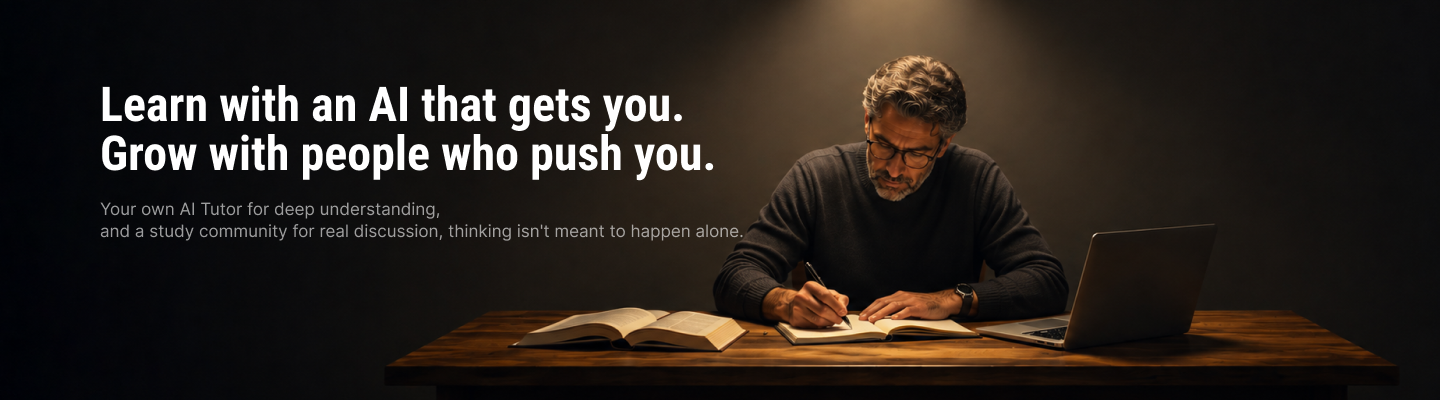
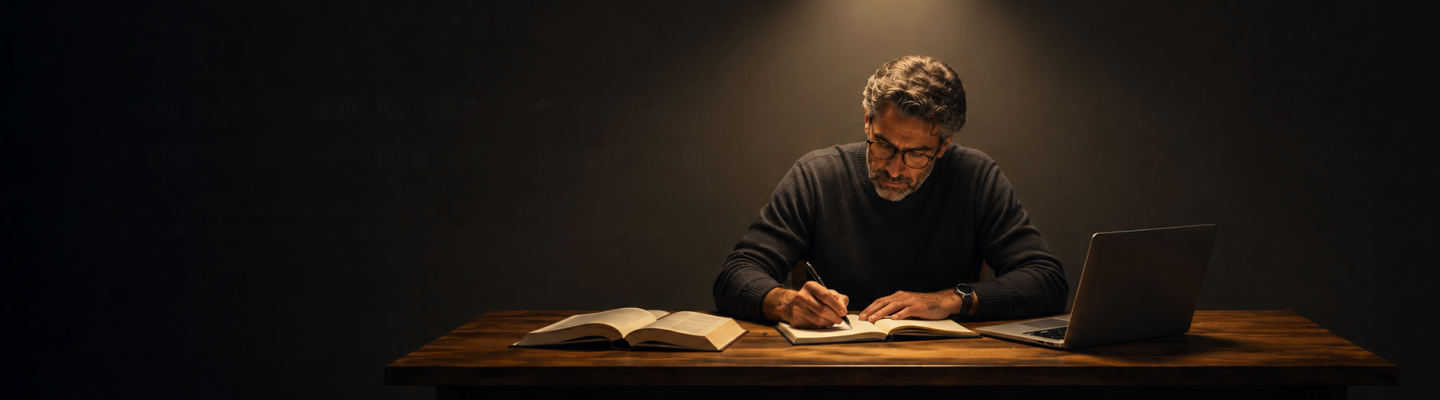
fix: show one portal hero slide at a time
Slides 2 and 3 used photos that already contained an English headline. The carousel draws one HTML headline on that photo, so both copies showed at once. Remove the flattened copy and reject it if it returns.

Changed region(s): [[0.0625, 0.21, 0.5, 0.45], [0.0625, 0.57, 0.5312, 0.6], [0.0625, 0.51, 0.3125, 0.54]]

diff --git a/tests/unit/portal-hero-banners.test.ts b/tests/unit/portal-hero-banners.test.ts
@@ -1,0 +1,24 @@
+import assert from "node:assert/strict";
+import { readFile } from "node:fs/promises";
+import path from "node:path";
+import test from "node:test";
+import sharp from "sharp";
+
+// Home slides paint one HTML headline over these photos. The pictures must stay
+// photographs: an earlier export flattened a second English headline into the pixels.
+test("homepage banner photos do not flatten a second headline into the picture", async () => {
+  for (const file of ["banner2.png", "banner3.png"]) {
+    const source = await readFile(path.join(process.cwd(), "public/portal", file));
+    const { data, info } = await sharp(source).ensureAlpha().raw().toBuffer({ resolveWithObject: true });
+    let bright = 0;
+    let total = 0;
+    for (let y = 90; y < 170; y++) {
+      for (let x = 120; x < 640; x++) {
+        const index = (y * info.width + x) * info.channels;
+        total += 1;
+        if (data[index] > 220 && data[index + 1] > 220 && data[index + 2] > 220) bright += 1;
+      }
+    }
+    assert.ok(bright / total < 0.01, `${file} still has a flattened white headline (${bright} of ${total} pixels)`);
+  }
+});
